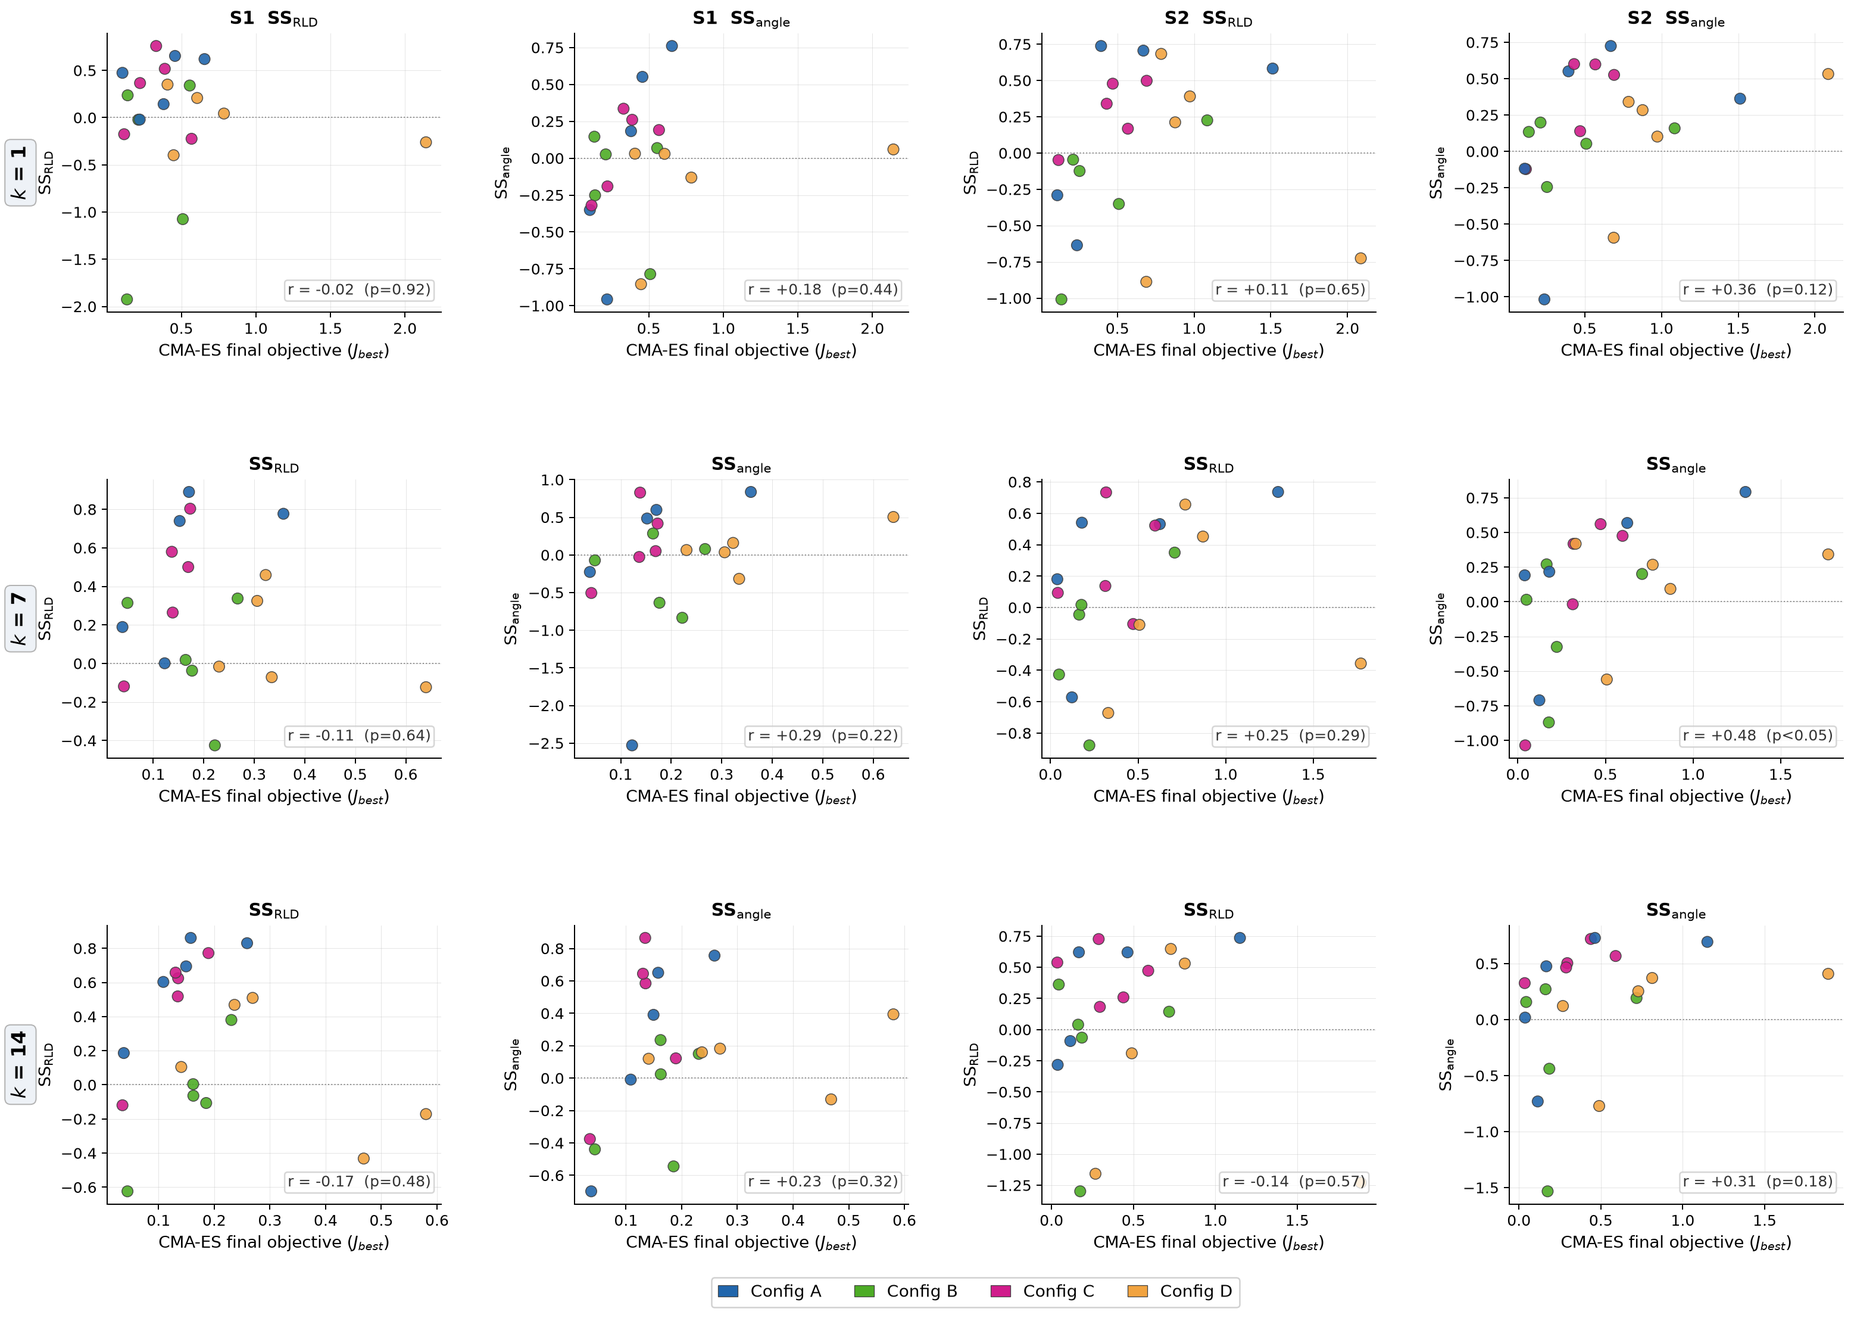
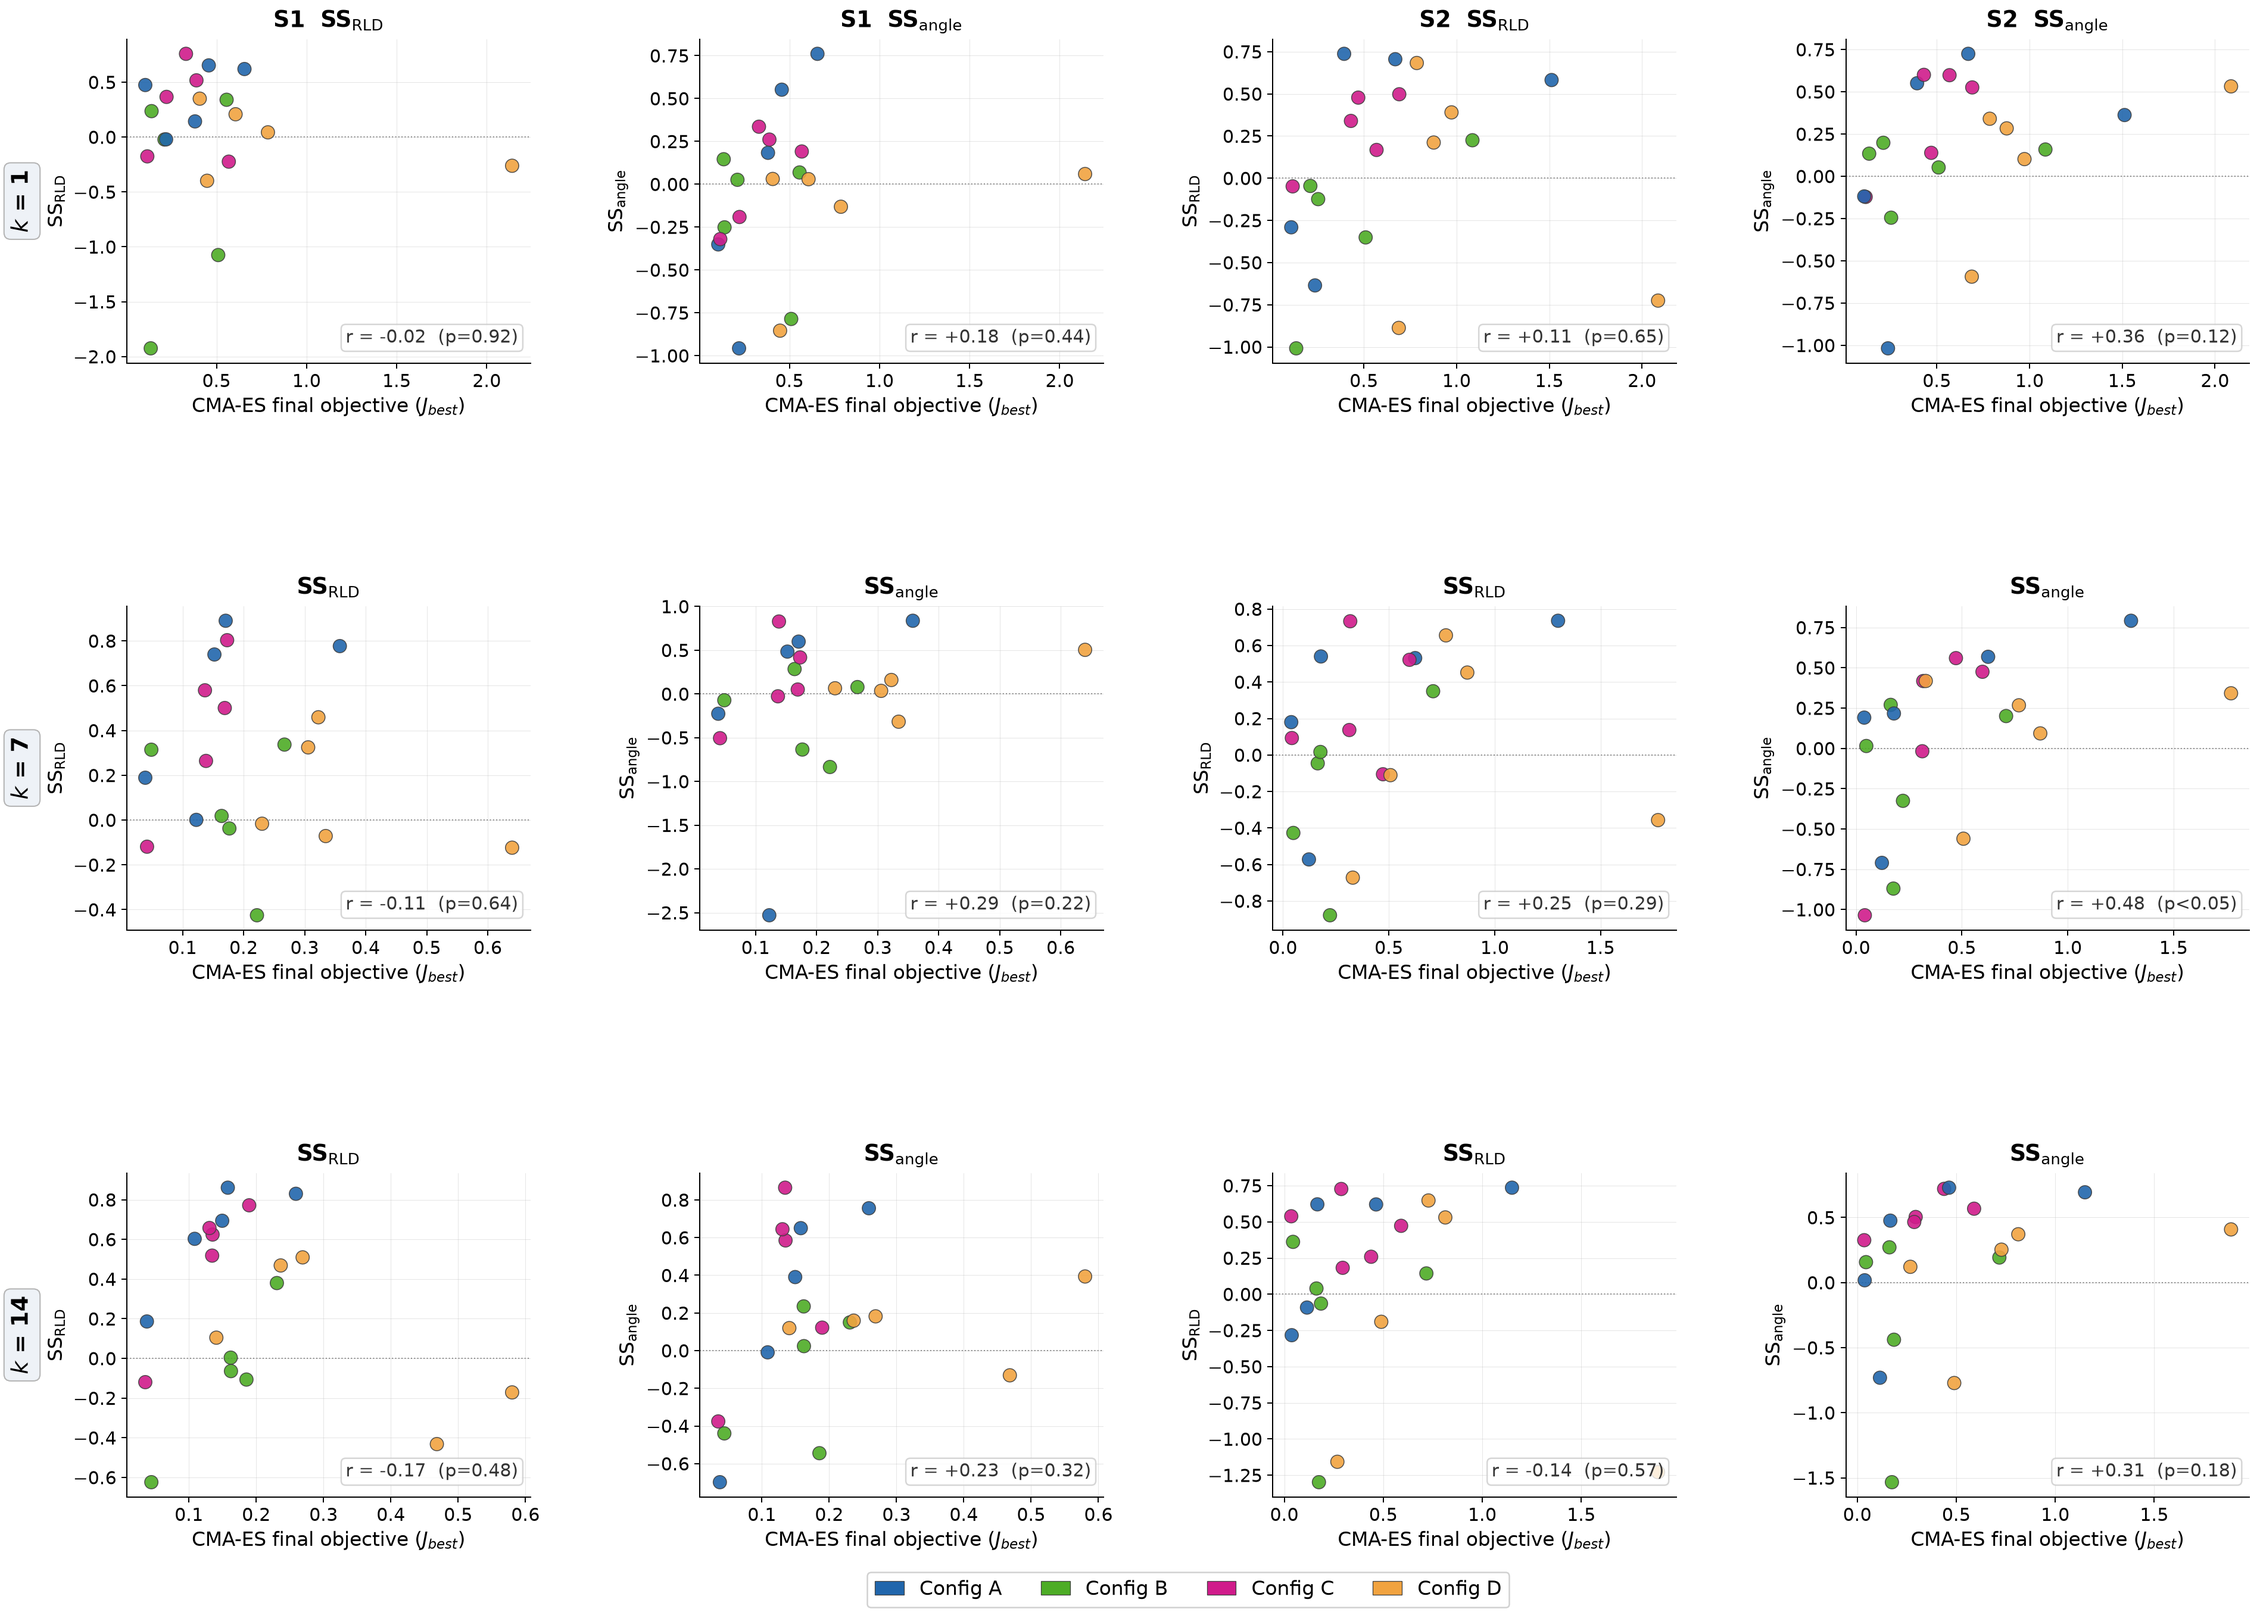
Fig6: further increase font sizes for publication readability
figsize 18×13→22×16, hspace 0.60→0.75,
panel titles 12→15, axis labels 11→13, ticks 10→12,
r annotations 10→12, k row labels 13→15, legend 11→13

diff --git a/publication/scripts/plot_fig6_equifinality.py b/publication/scripts/plot_fig6_equifinality.py
@@ -83,9 +83,9 @@ COLS = [
 
 # ── Plot 3×4 ─────────────────────────────────────────────────────────────────
 
-fig, axes = plt.subplots(3, 4, figsize=(18, 13))
-fig.subplots_adjust(left=0.07, right=0.97, top=0.93, bottom=0.09,
-                    hspace=0.60, wspace=0.40)
+fig, axes = plt.subplots(3, 4, figsize=(22, 16))
+fig.subplots_adjust(left=0.07, right=0.97, top=0.93, bottom=0.08,
+                    hspace=0.75, wspace=0.42)
 
 for row_idx, kcfg in enumerate(K_CONFIGS):
     k = kcfg["k"]
@@ -98,32 +98,32 @@ for row_idx, kcfg in enumerate(K_CONFIGS):
         y = df[met].values
 
         ax.scatter(x, y, c=colors, edgecolors="0.25", linewidths=0.6,
-                   s=55, zorder=3, alpha=0.9)
+                   s=80, zorder=3, alpha=0.9)
         ax.axhline(0, color="0.5", lw=0.8, ls=":", zorder=1)
 
         r, pval = stats.pearsonr(x, y)
         p_str = "p<0.05" if pval < 0.05 else f"p={pval:.2f}"
         ax.text(0.97, 0.05, f"r = {r:+.2f}  ({p_str})",
-                transform=ax.transAxes, ha="right", va="bottom", fontsize=10,
+                transform=ax.transAxes, ha="right", va="bottom", fontsize=12,
                 color="#333333",
-                bbox=dict(boxstyle="round,pad=0.2", fc="white", ec="0.8", alpha=0.8))
+                bbox=dict(boxstyle="round,pad=0.25", fc="white", ec="0.8", alpha=0.8))
 
-        ax.set_xlabel("CMA-ES final objective ($J_{best}$)", fontsize=11)
+        ax.set_xlabel("CMA-ES final objective ($J_{best}$)", fontsize=13)
         ax.set_ylabel(col_title.split("  ")[1] if col_idx > 0 else col_title.split("  ")[1],
-                      fontsize=11)
-        ax.tick_params(labelsize=10)
+                      fontsize=13)
+        ax.tick_params(labelsize=12)
         ax.spines["top"].set_visible(False)
         ax.spines["right"].set_visible(False)
         ax.grid(axis="both", lw=0.35, alpha=0.45, color="0.75")
 
         title = col_title if row_idx == 0 else col_title.split("  ")[1]
-        ax.set_title(title, fontsize=12, fontweight="bold", pad=6)
+        ax.set_title(title, fontsize=15, fontweight="bold", pad=8)
 
     # Row label: k value
     axes[row_idx, 0].annotate(
         f"$k$ = {k}",
         xy=(-0.26, 0.5), xycoords="axes fraction",
-        fontsize=13, fontweight="bold", ha="center", va="center",
+        fontsize=15, fontweight="bold", ha="center", va="center",
         rotation=90,
         bbox=dict(boxstyle="round,pad=0.3", fc="#eef2f7", ec="0.7", lw=0.8))
 
@@ -132,8 +132,8 @@ for row_idx, kcfg in enumerate(K_CONFIGS):
 cfg_patches = [mpatches.Patch(facecolor=CFG_COLORS[c], edgecolor="0.25",
                                linewidth=0.5, label=f"Config {CFG_LABEL[c]}")
                for c in ["A", "B2", "C", "D2"]]
-fig.legend(handles=cfg_patches, loc="lower center", ncol=4, fontsize=11,
-           framealpha=0.9, bbox_to_anchor=(0.52, 0.01), handlelength=1.2)
+fig.legend(handles=cfg_patches, loc="lower center", ncol=4, fontsize=13,
+           framealpha=0.9, bbox_to_anchor=(0.52, 0.01), handlelength=1.5)
 
 os.makedirs(os.path.dirname(FIG_OUT), exist_ok=True)
 fig.savefig(FIG_OUT, dpi=180, bbox_inches="tight", facecolor="white")
